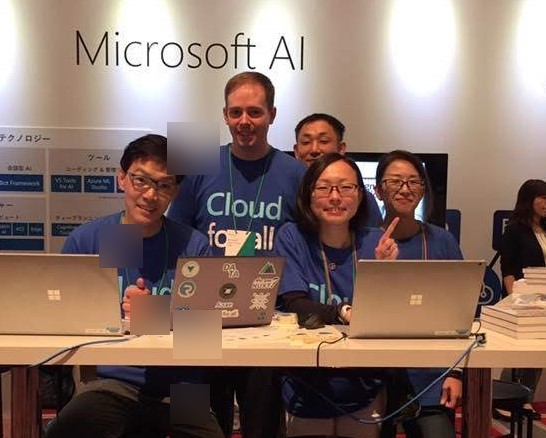
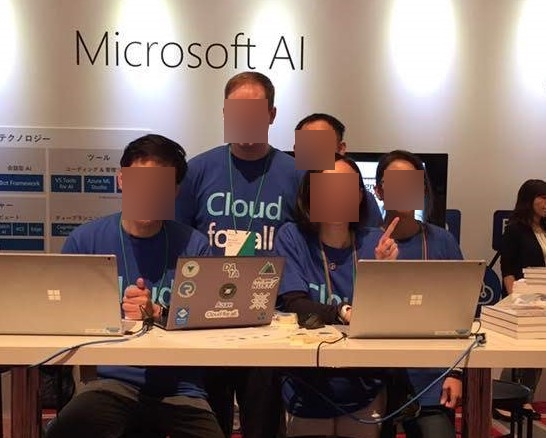
顔blur効果完成～

diff --git a/py/pillowLab/blur/faceblur.py b/py/pillowLab/blur/faceblur.py
@@ -20,16 +20,16 @@ def create_blur_img(src_img, face_rectangle, blur_ratio):
 
     # ブラー効果させたい部分を切り抜く
     src_crop = src_img.crop((
-        top,
         left,
-        top + face_rectangle['width'],
-        left + face_rectangle['height']
+        top,
+        left + face_rectangle['width'],
+        top + face_rectangle['height']
     ))
 
     # 切り抜いた画像をブラー化する
     crop_blur = src_crop.filter(ImageFilter.GaussianBlur(blur_ratio))
     # 元画像にブラー化した画像を張り付ける
-    src_img.paste(crop_blur, (top, left))
+    src_img.paste(crop_blur, (left, top))
 
     return src_img
 
@@ -43,7 +43,7 @@ def get_face_rectangle(img):
     url = 'https://japaneast.api.cognitive.microsoft.com/face/v1.0/detect'
     header = {
         'Content-Type': 'application/octet-stream',
-        'Ocp-Apim-Subscription-Key': 'ｘｘｘｘ'
+        'Ocp-Apim-Subscription-Key': 'xxxxx'
     }
 
     res = requests.post(url, headers=header, data=open(img, 'rb'))
